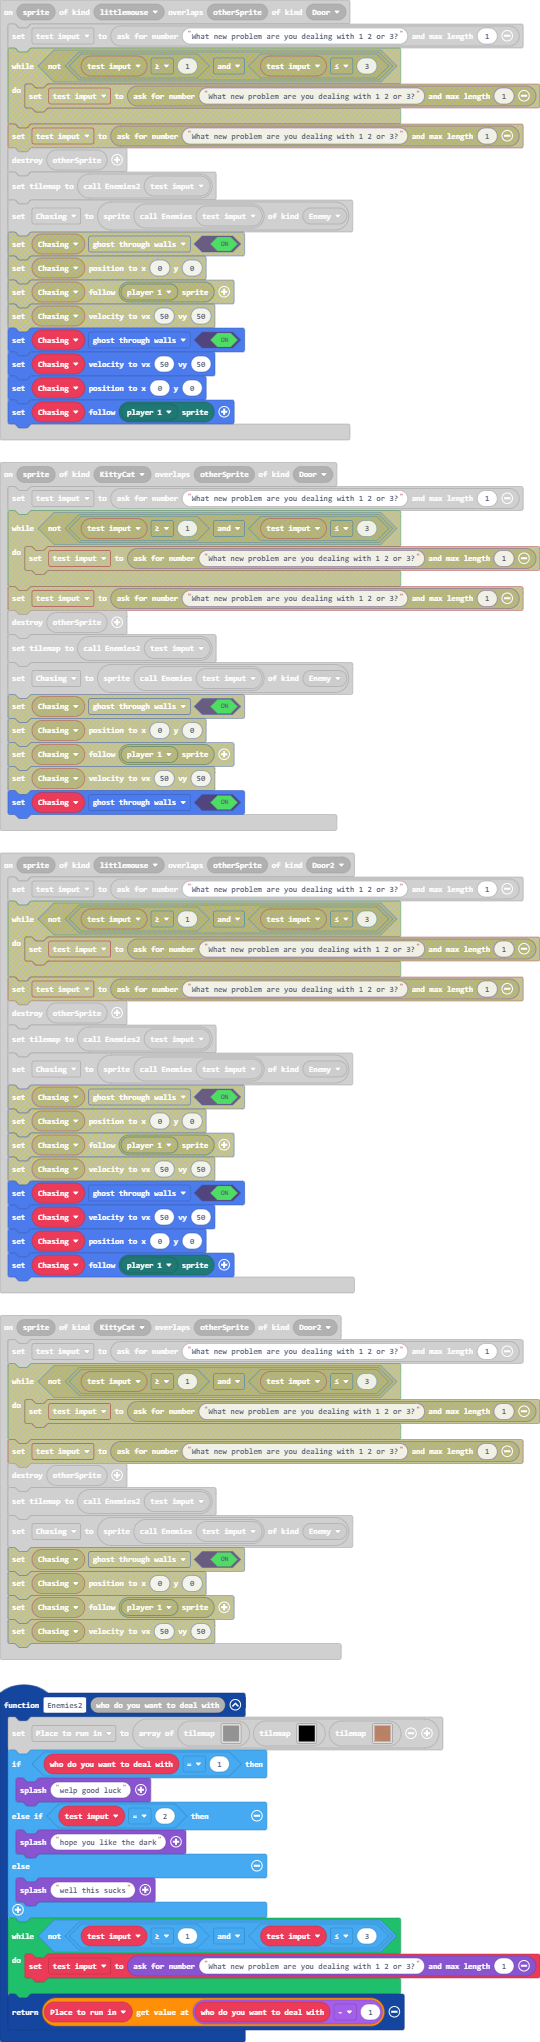
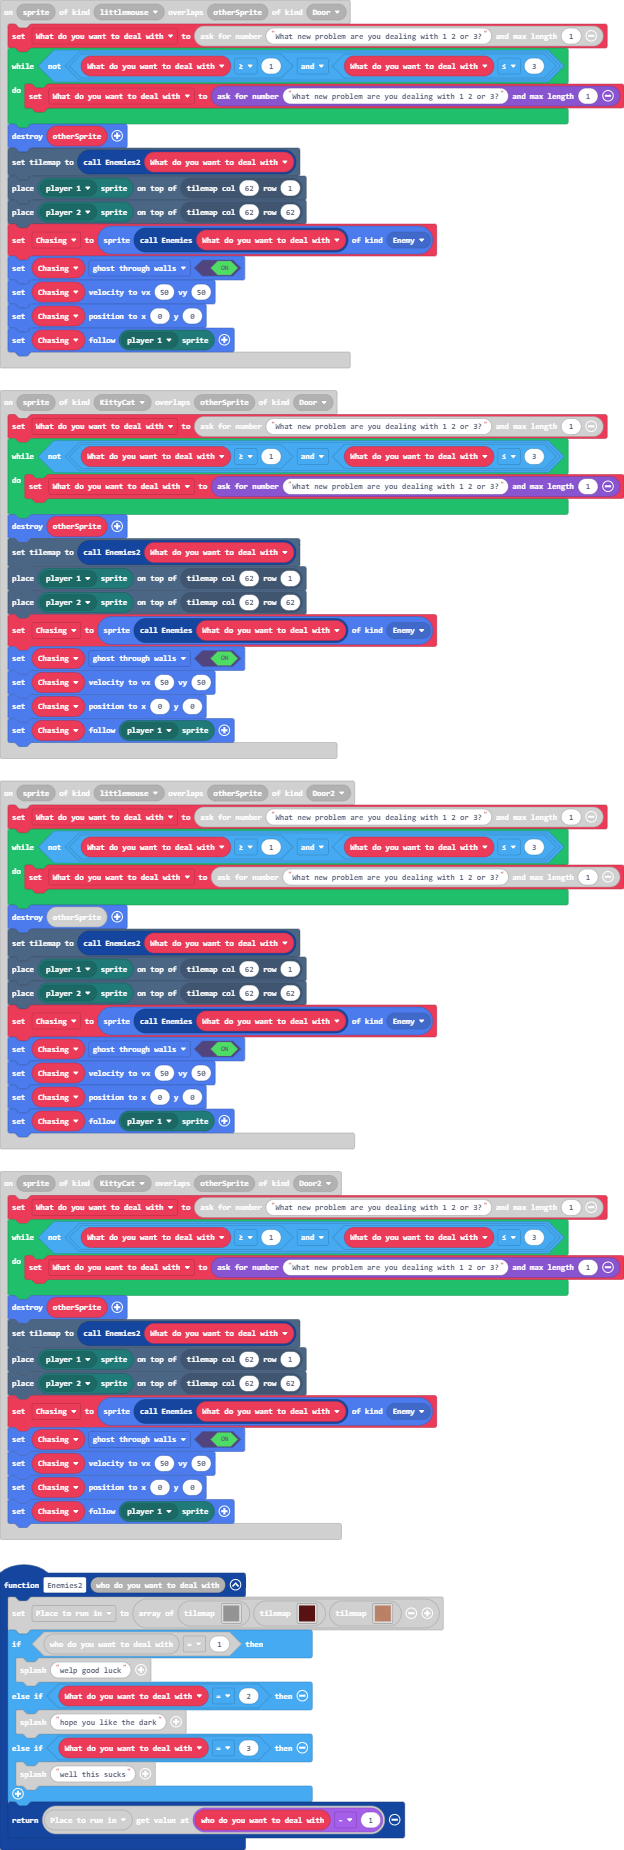
Update pxt.json, main.blocks, main.ts, tilemap.g.jres, tilemap.g.ts

diff --git a/main.ts b/main.ts
@@ -64,10 +64,15 @@ function Enemies (who_do_you_want_to_deal_with: number) {
     return List_of_things_to_run_from[who_do_you_want_to_deal_with - 1]
 }
 sprites.onOverlap(SpriteKind.littlemouse, SpriteKind.Door, function (sprite, otherSprite) {
-    test_imput = game.askForNumber("What new problem are you dealing with 1 2 or 3?", 1)
+    What_do_you_want_to_deal_with = game.askForNumber("What new problem are you dealing with 1 2 or 3?", 1)
+    while (!(What_do_you_want_to_deal_with >= 1 && What_do_you_want_to_deal_with <= 3)) {
+        What_do_you_want_to_deal_with = game.askForNumber("What new problem are you dealing with 1 2 or 3?", 1)
+    }
     sprites.destroy(otherSprite)
-    tiles.setCurrentTilemap(Enemies2(test_imput))
-    Chasing = sprites.create(Enemies(test_imput), SpriteKind.Enemy)
+    tiles.setCurrentTilemap(Enemies2(What_do_you_want_to_deal_with))
+    tiles.placeOnTile(mp.getPlayerSprite(mp.playerSelector(mp.PlayerNumber.One)), tiles.getTileLocation(62, 1))
+    tiles.placeOnTile(mp.getPlayerSprite(mp.playerSelector(mp.PlayerNumber.Two)), tiles.getTileLocation(62, 62))
+    Chasing = sprites.create(Enemies(What_do_you_want_to_deal_with), SpriteKind.Enemy)
     Chasing.setFlag(SpriteFlag.GhostThroughWalls, true)
     Chasing.setVelocity(50, 50)
     Chasing.setPosition(0, 0)
@@ -102,10 +107,15 @@ sprites.onOverlap(SpriteKind.littlemouse, SpriteKind.Rose2, function (sprite, ot
     }
 })
 sprites.onOverlap(SpriteKind.littlemouse, SpriteKind.Door2, function (sprite, otherSprite) {
-    test_imput = game.askForNumber("What new problem are you dealing with 1 2 or 3?", 1)
+    What_do_you_want_to_deal_with = game.askForNumber("What new problem are you dealing with 1 2 or 3?", 1)
+    while (!(What_do_you_want_to_deal_with >= 1 && What_do_you_want_to_deal_with <= 3)) {
+        What_do_you_want_to_deal_with = game.askForNumber("What new problem are you dealing with 1 2 or 3?", 1)
+    }
     sprites.destroy(otherSprite)
-    tiles.setCurrentTilemap(Enemies2(test_imput))
-    Chasing = sprites.create(Enemies(test_imput), SpriteKind.Enemy)
+    tiles.setCurrentTilemap(Enemies2(What_do_you_want_to_deal_with))
+    tiles.placeOnTile(mp.getPlayerSprite(mp.playerSelector(mp.PlayerNumber.One)), tiles.getTileLocation(62, 1))
+    tiles.placeOnTile(mp.getPlayerSprite(mp.playerSelector(mp.PlayerNumber.Two)), tiles.getTileLocation(62, 62))
+    Chasing = sprites.create(Enemies(What_do_you_want_to_deal_with), SpriteKind.Enemy)
     Chasing.setFlag(SpriteFlag.GhostThroughWalls, true)
     Chasing.setVelocity(50, 50)
     Chasing.setPosition(0, 0)
@@ -151,22 +161,27 @@ function Enemies2 (who_do_you_want_to_deal_with: number) {
     Place_to_run_in = [tilemap`level13`, tilemap`level15`, tilemap`level16`]
     if (who_do_you_want_to_deal_with == 1) {
         game.splash("welp good luck")
-    } else if (test_imput == 2) {
+    } else if (What_do_you_want_to_deal_with == 2) {
         game.splash("hope you like the dark")
-    } else {
+    } else if (What_do_you_want_to_deal_with == 3) {
         game.splash("well this sucks")
-    }
-    while (!(test_imput >= 1 && test_imput <= 3)) {
-        test_imput = game.askForNumber("What new problem are you dealing with 1 2 or 3?", 1)
     }
     return Place_to_run_in[who_do_you_want_to_deal_with - 1]
 }
 sprites.onOverlap(SpriteKind.KittyCat, SpriteKind.Door, function (sprite, otherSprite) {
-    test_imput = game.askForNumber("What new problem are you dealing with 1 2 or 3?", 1)
+    What_do_you_want_to_deal_with = game.askForNumber("What new problem are you dealing with 1 2 or 3?", 1)
+    while (!(What_do_you_want_to_deal_with >= 1 && What_do_you_want_to_deal_with <= 3)) {
+        What_do_you_want_to_deal_with = game.askForNumber("What new problem are you dealing with 1 2 or 3?", 1)
+    }
     sprites.destroy(otherSprite)
-    tiles.setCurrentTilemap(Enemies2(test_imput))
-    Chasing = sprites.create(Enemies(test_imput), SpriteKind.Enemy)
+    tiles.setCurrentTilemap(Enemies2(What_do_you_want_to_deal_with))
+    tiles.placeOnTile(mp.getPlayerSprite(mp.playerSelector(mp.PlayerNumber.One)), tiles.getTileLocation(62, 1))
+    tiles.placeOnTile(mp.getPlayerSprite(mp.playerSelector(mp.PlayerNumber.Two)), tiles.getTileLocation(62, 62))
+    Chasing = sprites.create(Enemies(What_do_you_want_to_deal_with), SpriteKind.Enemy)
     Chasing.setFlag(SpriteFlag.GhostThroughWalls, true)
+    Chasing.setVelocity(50, 50)
+    Chasing.setPosition(0, 0)
+    Chasing.follow(mp.getPlayerSprite(mp.playerSelector(mp.PlayerNumber.One)))
 })
 controller.player2.onButtonEvent(ControllerButton.Right, ControllerButtonEvent.Pressed, function () {
     animation.runImageAnimation(
@@ -194,10 +209,19 @@ controller.player2.onButtonEvent(ControllerButton.Right, ControllerButtonEvent.P
     )
 })
 sprites.onOverlap(SpriteKind.KittyCat, SpriteKind.Door2, function (sprite, otherSprite) {
-    test_imput = game.askForNumber("What new problem are you dealing with 1 2 or 3?", 1)
+    What_do_you_want_to_deal_with = game.askForNumber("What new problem are you dealing with 1 2 or 3?", 1)
+    while (!(What_do_you_want_to_deal_with >= 1 && What_do_you_want_to_deal_with <= 3)) {
+        What_do_you_want_to_deal_with = game.askForNumber("What new problem are you dealing with 1 2 or 3?", 1)
+    }
     sprites.destroy(otherSprite)
-    tiles.setCurrentTilemap(Enemies2(test_imput))
-    Chasing = sprites.create(Enemies(test_imput), SpriteKind.Enemy)
+    tiles.setCurrentTilemap(Enemies2(What_do_you_want_to_deal_with))
+    tiles.placeOnTile(mp.getPlayerSprite(mp.playerSelector(mp.PlayerNumber.One)), tiles.getTileLocation(62, 1))
+    tiles.placeOnTile(mp.getPlayerSprite(mp.playerSelector(mp.PlayerNumber.Two)), tiles.getTileLocation(62, 62))
+    Chasing = sprites.create(Enemies(What_do_you_want_to_deal_with), SpriteKind.Enemy)
+    Chasing.setFlag(SpriteFlag.GhostThroughWalls, true)
+    Chasing.setVelocity(50, 50)
+    Chasing.setPosition(0, 0)
+    Chasing.follow(mp.getPlayerSprite(mp.playerSelector(mp.PlayerNumber.One)))
 })
 sprites.onOverlap(SpriteKind.littlemouse, SpriteKind.KittyCat, function (sprite, otherSprite) {
     sprites.destroy(mp.getPlayerSprite(mp.playerSelector(mp.PlayerNumber.One)))
@@ -416,7 +440,7 @@ let Book_2: Sprite = null
 let Book_1: Sprite = null
 let Place_to_run_in: tiles.TileMapData[] = []
 let Chasing: Sprite = null
-let test_imput = 0
+let What_do_you_want_to_deal_with = 0
 let List_of_things_to_run_from: Image[] = []
 game.showLongText("Mouse collects the roses to win, Dont let the cat catch you. The books take you to new mazes for more roses. Hint: There are fake walls if you know how to find them.", DialogLayout.Full)
 tiles.setCurrentTilemap(tilemap`level1`)

diff --git a/tilemap.g.ts b/tilemap.g.ts
@@ -579,7 +579,7 @@ namespace myTiles {
 ................................
 .22222222222222.222222222222222.
 ................................
-`, [myTiles.transparency16,myTiles.tile4], TileScale.Sixteen);
+`, [myTiles.transparency16,myTiles.tile3], TileScale.Sixteen);
         }
         return null;
     })
